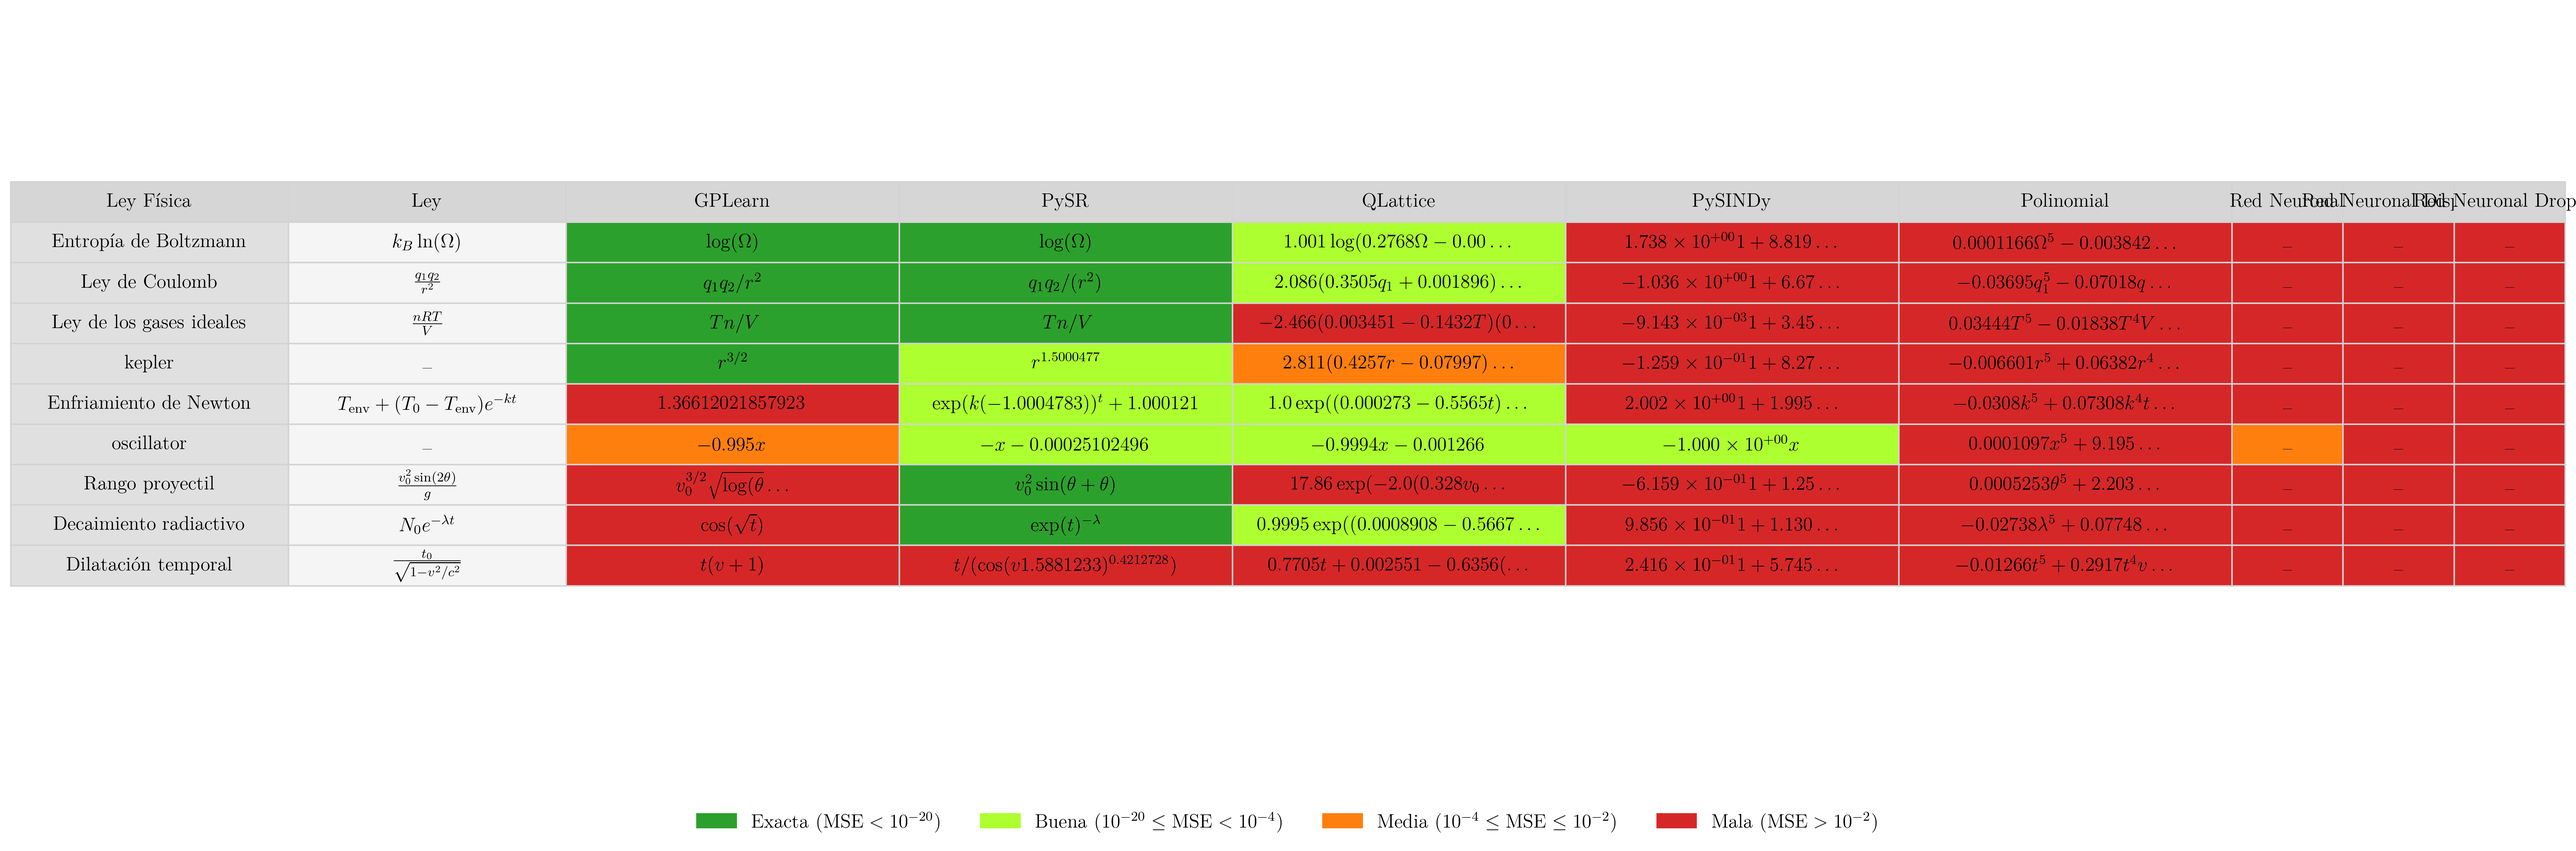
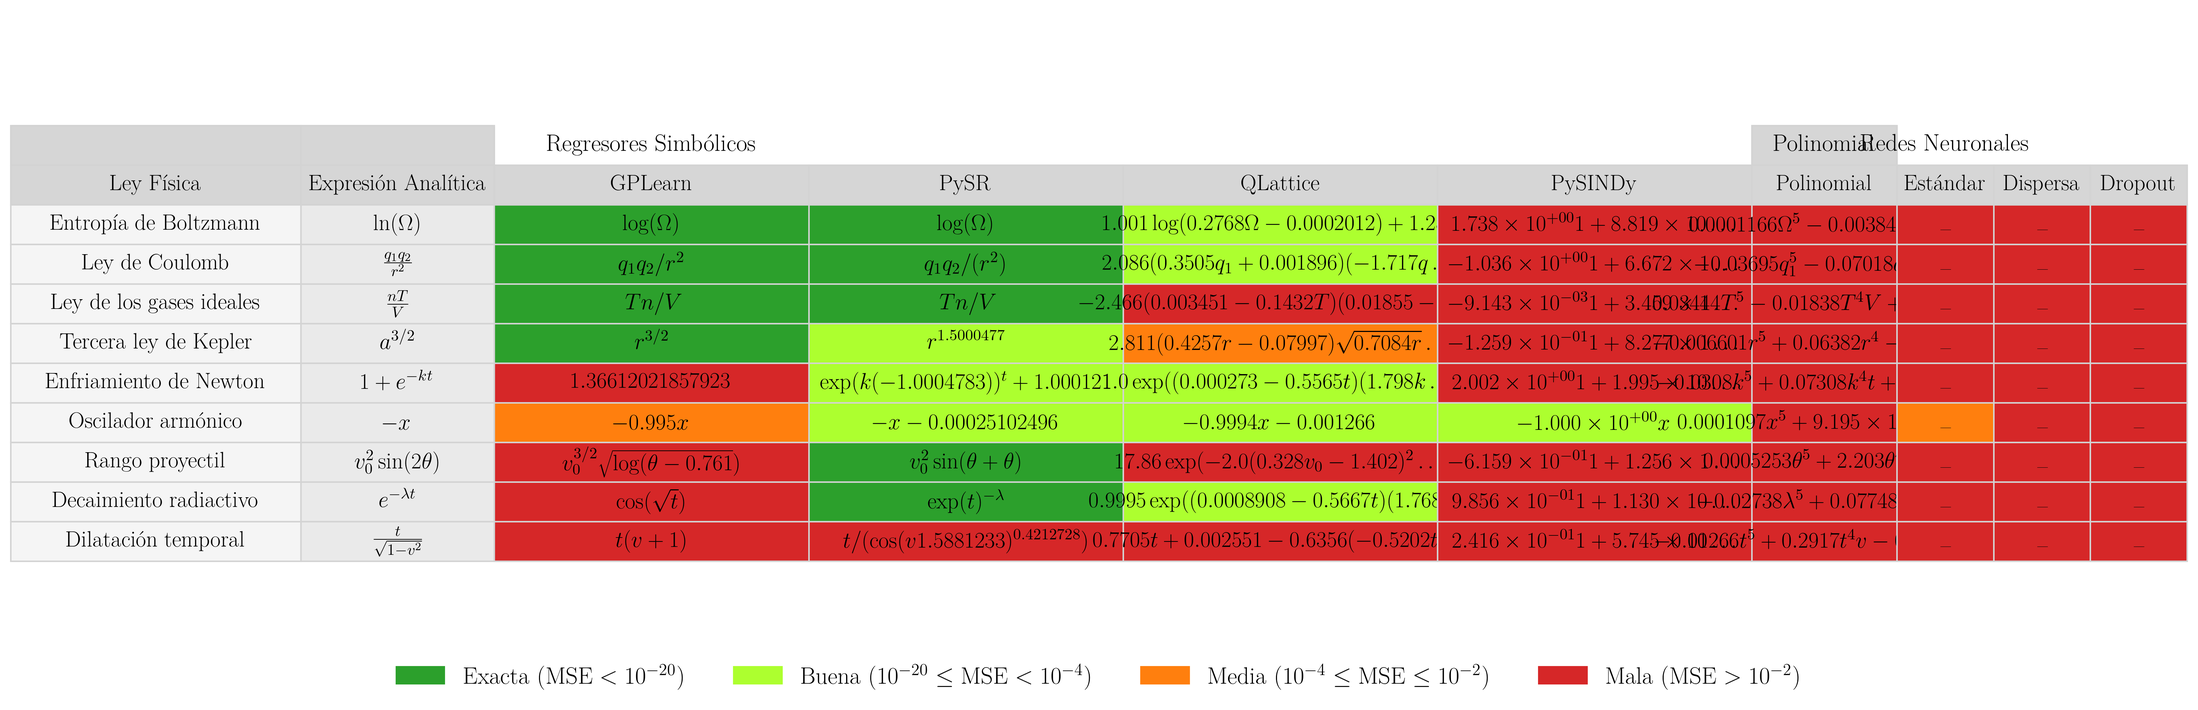
tables in pdf. not good yet

diff --git a/src/table_final.py b/src/table_final.py
@@ -20,7 +20,6 @@ RESULTS_TXT = os.path.join(_RESULTS, "all_models", "combined_results.txt")
 OOD_JSON = os.path.join(_RESULTS, "results_ood", "ood_metrics_summary.json")
 OUT_DIR = os.path.join(_RESULTS, "results_ood")
 
-
 sys.path.append(os.path.abspath(os.path.join(os.path.dirname(__file__), '..')))
 try:
     from utils.utils import set_plot_style
@@ -38,21 +37,41 @@ plt.rcParams.update({
 })
 
 COLOR_EXACT = '#2ca02c'
-COLOR_BUENO = 'greenyellow'
+COLOR_BUENO = 'limegreen'
 COLOR_APPROX = '#ff7f0e'
 COLOR_INCORRECT = '#d62728'
 
-TRUE_EQUATIONS = {
-    "coulomb": r"$\frac{q_1 q_2}{r^2}$",
-    "harmonic_oscillator": r"$\frac{1}{2} k x^2$",
-    "kepler_third": r"$\frac{4 \pi^2}{G M} r^3$",
-    "ideal_gas": r"$\frac{n R T}{V}$",
-    "time_dilation": r"$\frac{t_0}{\sqrt{1 - v^2/c^2}}$",
-    "projectile_range": r"$\frac{v_0^2 \sin(2\theta)}{g}$",
-    "radioactive_decay": r"$N_0 e^{-\lambda t}$",
-    "newton_cooling": r"$T_{\text{env}} + (T_0 - T_{\text{env}})e^{-kt}$",
-    "boltzmann_entropy": r"$k_B \ln(\Omega)$",
-}
+def get_true_eq(raw_law):
+    mapping = {
+        "coulomb": r"$\frac{q_1 q_2}{r^2}$",
+        "oscillator": r"$-x$",
+        "harmonic_oscillator": r"$-x$",
+        "kepler": r"$a^{3/2}$",
+        "kepler_third": r"$a^{3/2}$",
+        "ideal_gas": r"$\frac{n T}{V}$",
+        "time_dilation": r"$\frac{t}{\sqrt{1 - v^2}}$",
+        "projectile_range": r"$v_0^2 \sin(2\theta)$",
+        "radioactive_decay": r"$e^{-\lambda t}$",
+        "newton_cooling": r"$1 + e^{-kt}$",
+        "boltzmann_entropy": r"$\ln(\Omega)$",
+    }
+    return mapping.get(raw_law, "--")
+
+def get_law_name(raw_law):
+    mapping = {
+        "coulomb": "Ley de Coulomb",
+        "oscillator": "Oscilador armónico",
+        "harmonic_oscillator": "Oscilador armónico",
+        "kepler": "Tercera ley de Kepler",
+        "kepler_third": "Tercera ley de Kepler",
+        "ideal_gas": "Ley de los gases ideales",
+        "time_dilation": "Dilatación temporal",
+        "projectile_range": "Rango proyectil",
+        "radioactive_decay": "Decaimiento radiactivo",
+        "newton_cooling": "Enfriamiento de Newton",
+        "boltzmann_entropy": "Entropía de Boltzmann",
+    }
+    return mapping.get(raw_law, raw_law)
 
 # ─────────────────────────────────────────────────────────────
 # MODELS
@@ -69,27 +88,9 @@ MODEL_ES = {
     "QLattice": "QLattice",
     "PySINDy": "PySINDy",
     "Polynomial": "Polinomial",
-    "MLP_Standard": "Red Neuronal",
-    "MLP_Sparse": "Red Neuronal Dispersa",
-    "MLP_Dropout": "Red Neuronal Dropout"
-}
-
-MODEL_HEADER = {m: MODEL_ES.get(m, m) for m in MODEL_ORDER}
-
-# ─────────────────────────────────────────────────────────────
-# LEYES FÍSICAS EN ESPAÑOL
-# ─────────────────────────────────────────────────────────────
-
-LAW_ES = {
-    "coulomb": "Ley de Coulomb",
-    "harmonic_oscillator": "Oscilador armónico",
-    "kepler_third": "Tercera ley de Kepler",
-    "ideal_gas": "Ley de los gases ideales",
-    "time_dilation": "Dilatación temporal",
-    "projectile_range": "Rango proyectil",
-    "radioactive_decay": "Decaimiento radiactivo",
-    "newton_cooling": "Enfriamiento de Newton",
-    "boltzmann_entropy": "Entropía de Boltzmann",
+    "MLP_Standard": "Estándar",
+    "MLP_Sparse": "Dispersa",
+    "MLP_Dropout": "Dropout"
 }
 
 NOISE_KEYS = ["no_noise", "low_noise", "high_noise"]
@@ -155,15 +156,21 @@ def load_ood(path):
 # CLEAN EQUATION & CELL FIT
 # ─────────────────────────────────────────────────────────────
 
-def compute_max_chars_per_col(base_width=35):
-    return base_width
+def get_max_chars(model: str) -> int:
+    """Asigna límites de truncamiento dinámicos según el ancho de columna."""
+    if model in ["PySINDy", "QLattice"]:
+        return 28
+    if model == "Polynomial":
+        return 16
+    if model.startswith("MLP"):
+        return 10
+    return 35
 
 def format_latex_equation(eq: str, max_chars: int) -> str:
     if eq in ["", "--", "----", None]:
         return "--"
 
     eq = str(eq).replace("\n", " ")
-    
     eq = re.sub(r"\b([0-9.]+)e([-+]?[0-9]+)\b", r"\1 \\times 10^{\2}", eq)
     
     for func in ["log", "exp", "sin", "cos", "tan"]:
@@ -219,13 +226,25 @@ def get_colour(mse):
 # TABLE
 # ─────────────────────────────────────────────────────────────
 
-def build_table(df, ood, noise, laws, models, max_chars):
+def build_table_data(df, ood, noise, laws, models):
     text, colors = [], []
 
+    # Fila 0: Super-cabecera en blanco (se dibuja manualmente para centrado perfecto)
+    row0_t = [""] * (len(models) + 2)
+    row0_c = ["#D6D6D6"] * (len(models) + 2)
+    text.append(row0_t)
+    colors.append(row0_c)
+
+    # Fila 1: Cabecera real
+    row1_t = ["Ley Física", "Expresión Analítica"] + [MODEL_ES.get(m, m) for m in models]
+    row1_c = ["#D6D6D6"] * (len(models) + 2)
+    text.append(row1_t)
+    colors.append(row1_c)
+
+    # Cuerpo
     for law in laws:
-        # Columna nueva: Expresión teórica analítica
-        row_t = [TRUE_EQUATIONS.get(law, "--")]
-        row_c = ["#F5F5F5"]
+        row_t = [get_law_name(law), get_true_eq(law)]
+        row_c = ["#F5F5F5", "#EAEAEA"]
 
         for model in models:
             sub = df[
@@ -235,18 +254,10 @@ def build_table(df, ood, noise, laws, models, max_chars):
             ]
 
             is_nn = model.startswith("MLP")
-
-            if is_nn:
-                eq = r"--"
-            else:
-                if sub.empty:
-                    eq = r"--"
-                else:
-                    eq = sub.iloc[0]["equation"]
+            eq = "--" if is_nn or sub.empty else sub.iloc[0]["equation"]
 
             mse = ood.get(law, {}).get(model, {}).get(noise)
-
-            eq_clean = format_latex_equation(eq, max_chars) if not is_nn else eq
+            eq_clean = format_latex_equation(eq, get_max_chars(model)) if not is_nn else eq
             
             row_t.append(eq_clean)
             row_c.append(get_colour(mse))
@@ -260,54 +271,79 @@ def build_table(df, ood, noise, laws, models, max_chars):
 # RENDER
 # ─────────────────────────────────────────────────────────────
 
-def render(cell_text, cell_colors, laws, models, out_path):
-    headers = ["Ley"] + [MODEL_HEADER[m] for m in models]
-
-    # Reducción de dimensiones
-    fig, ax = plt.subplots(figsize=(24, 8))
+def render(cell_text, cell_colors, models, out_path):
+    fig, ax = plt.subplots(figsize=(26, 8))
     ax.axis("off")
 
-    table_text = [
-        [LAW_ES.get(l, l)] + row for l, row in zip(laws, cell_text)
-    ]
-    table_colors = [["#E0E0E0"] + row for row in cell_colors]
-
-    # Distribución asimétrica de anchos de columna
-    widths = [0.10, 0.10] # "Ley Física" y "Ley" teórica
+    widths = [0.12, 0.08] 
     for m in models:
         if m.startswith("MLP"):
-            widths.append(0.04) # Compresión de las celdas MLP
+            widths.append(0.04)
+        elif m == "Polynomial":
+            widths.append(0.06)
         else:
-            widths.append(0.12) # Expansión para ecuaciones simbólicas
+            widths.append(0.13) 
             
-    # Normalización del espacio vectorial de anchos
     w_sum = sum(widths)
     widths = [w / w_sum for w in widths]
 
     tbl = ax.table(
-        cellText=table_text,
-        colLabels=["Ley Física"] + headers,
-        cellColours=table_colors,
+        cellText=cell_text,
+        cellColours=cell_colors,
         colWidths=widths,
         cellLoc="center",
         loc="center"
     )
 
     tbl.auto_set_font_size(False)
-    tbl.set_fontsize(13)
-    tbl.scale(1.0, 2.0)
+    tbl.set_fontsize(15) 
+    tbl.scale(1.0, 2.2)
 
     for (r, c), cell in tbl.get_celld().items():
         cell.get_text().set_wrap(True)
         cell.set_clip_on(True)
         cell.set_edgecolor('#D3D3D3')
 
+        # Formato geométrico de las filas de cabecera
         if r == 0:
-            cell.set_facecolor("#D6D6D6")
+            # Elimina bordes divisorios internos para unificar celdas matemáticamente
+            if c in [2, 3, 4, 5]: 
+                edges = "BT"
+                if c == 2: edges += "L"
+                if c == 5: edges += "R"
+                cell.visible_edges = edges
+            elif c in [7, 8, 9]:
+                edges = "BT"
+                if c == 7: edges += "L"
+                if c == 9: edges += "R"
+                cell.visible_edges = edges
+                
+        elif r == 1:
             cell.set_text_props(weight="bold")
 
-        if c == 0 or c == 1:
+        # Negrita en nombres de leyes
+        if c == 0 and r > 1:
             cell.set_text_props(weight="bold")
+
+    # Inyección de texto superpuesto en coordenadas del Bounding Box
+    fig.canvas.draw()
+    
+    # Centro: Regresores Simbólicos (cols 2 a 5)
+    b_rs_L = tbl[0, 2].get_bbox()
+    b_rs_R = tbl[0, 5].get_bbox()
+    ax.text((b_rs_L.x0 + b_rs_R.x1) / 2, (b_rs_L.y0 + b_rs_L.y1) / 2, 
+            "Regresores Simbólicos", ha='center', va='center', weight='bold', size=16, transform=ax.transAxes)
+
+    # Centro: Polinomial (col 6)
+    b_poly = tbl[0, 6].get_bbox()
+    ax.text((b_poly.x0 + b_poly.x1) / 2, (b_poly.y0 + b_poly.y1) / 2, 
+            "Polinomial", ha='center', va='center', weight='bold', size=16, transform=ax.transAxes)
+
+    # Centro: Redes Neuronales (cols 7 a 9)
+    b_nn_L = tbl[0, 7].get_bbox()
+    b_nn_R = tbl[0, 9].get_bbox()
+    ax.text((b_nn_L.x0 + b_nn_R.x1) / 2, (b_nn_L.y0 + b_nn_L.y1) / 2, 
+            "Redes Neuronales", ha='center', va='center', weight='bold', size=16, transform=ax.transAxes)
 
     legend = [
         mpatches.Patch(color=COLOR_EXACT, label=r"Exacta ($\mathrm{MSE} < 10^{-20}$)"),
@@ -319,14 +355,14 @@ def render(cell_text, cell_colors, laws, models, out_path):
     ax.legend(
         handles=legend,
         loc="upper center",
-        bbox_to_anchor=(0.5, -0.05),
+        bbox_to_anchor=(0.5, 0.05),
         ncol=4,
         frameon=False,
-        fontsize=13
+        fontsize=16
     )
 
-    plt.tight_layout()
-    fig.savefig(out_path, dpi=300, bbox_inches="tight")
+    # Exportación estricta en PDF vectorial
+    fig.savefig(out_path, format="pdf", bbox_inches="tight", pad_inches=0.1)
     plt.close(fig)
 
 # ─────────────────────────────────────────────────────────────
@@ -344,16 +380,13 @@ def main():
     models = [m for m in MODEL_ORDER if m in df["model"].unique()]
 
     os.makedirs(OUT_DIR, exist_ok=True)
-    
-    max_chars = compute_max_chars_per_col(base_width=35)
 
     for noise in NOISE_KEYS:
-        text, colors = build_table(df, ood, noise, laws, models, max_chars)
+        text, colors = build_table_data(df, ood, noise, laws, models)
+        out = os.path.join(OUT_DIR, f"table_{noise}.pdf")
+        render(text, colors, models, out)
 
-        out = os.path.join(OUT_DIR, f"table_{noise}.png")
-        render(text, colors, laws, models, out)
-
-    print("Tablas generadas correctamente.")
+    print("Tablas generadas correctamente (PDF).")
 
 if __name__ == "__main__":
     main()
